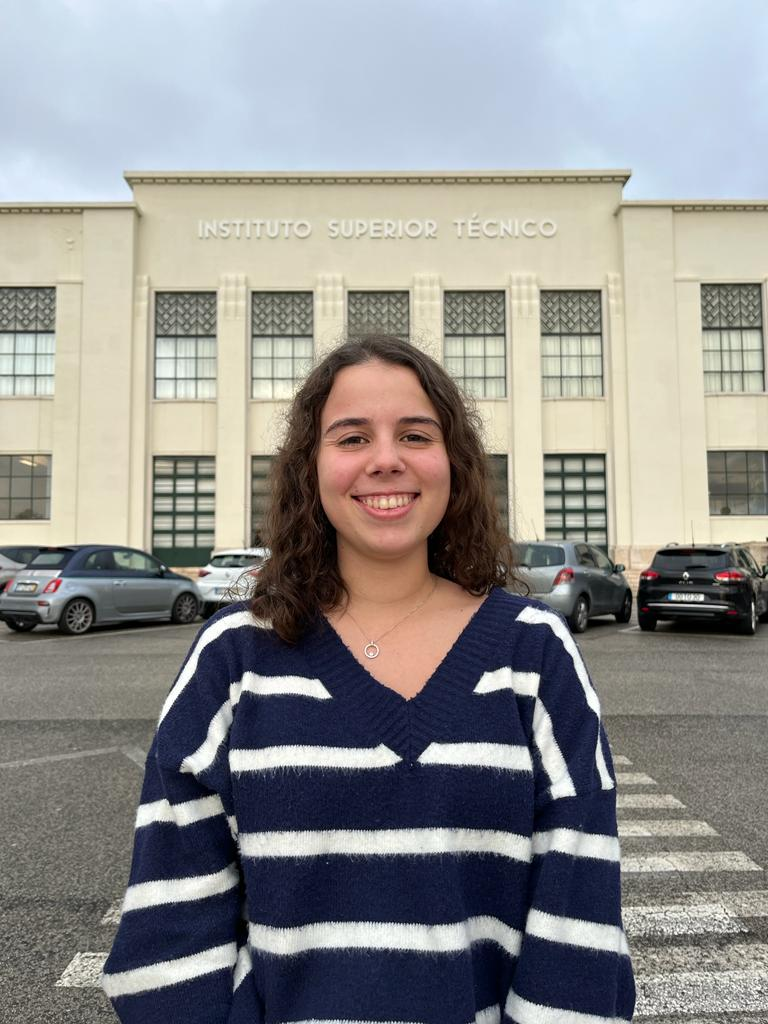
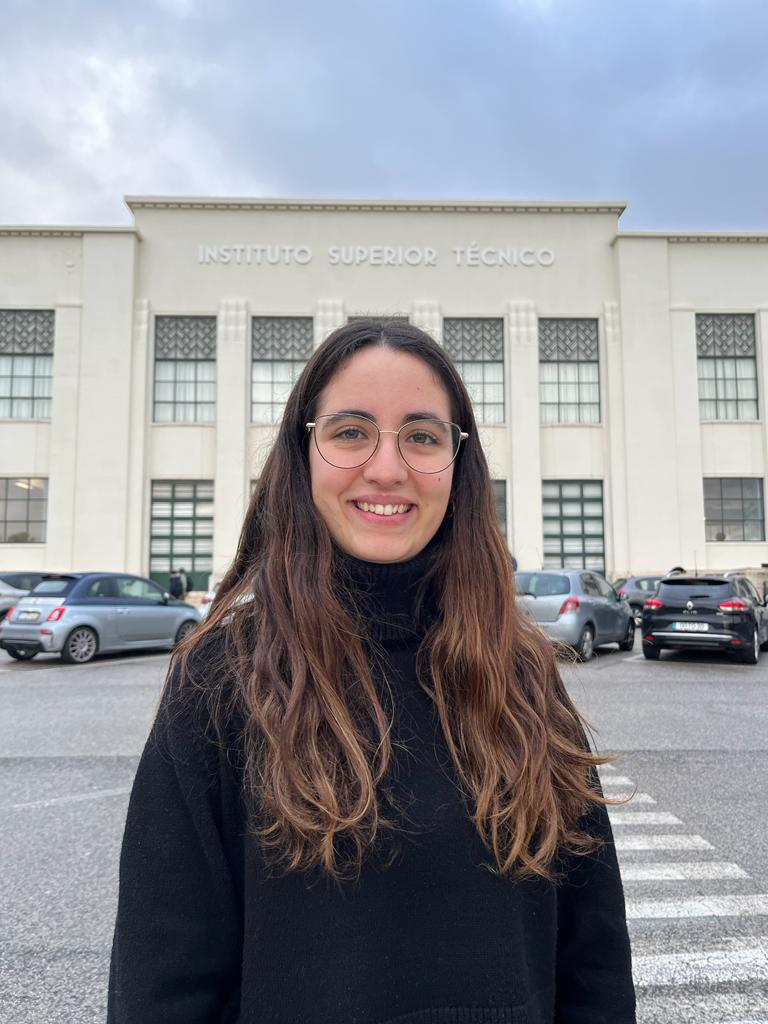
Fix About Us

diff --git a/frontend/src/assets/objects/colabObjects.js b/frontend/src/assets/objects/colabObjects.js
@@ -260,16 +260,16 @@ export const colabObjects = [
 		id: 18,
 	},
 	{
-		name: 'Beatriz Martins',
-		email: 'beatriz.f.martins@tecnico.ulisboa.pt',
-		university: 'IST',
+		name: 'Marta Santos',
+		email: 'marta.mendes.santos@tecnico.ulisboa.pt',
+		university: 'Instituto Superior Técnico',
 		degree: 'Engenharia Biomédica',
 		typeOfUser: 'colaborator',
 		department: 'media',
 		description:
-			'Proativa, determinada e metódica. Gosto de enfrentar novos desafios e de sair da minha zona de conforto. Sou trabalhadora e não desisto dos meus compromissos. ',
-		contacts: 'https://www.linkedin.com/in/beatrizfmartins/',
-		researchInterests: 'GeneTherapy, DNA, StemCells',
+			'Aluna do segundo ano de Engenharia Biomédica do Instituto Superior Técnico. Colaboradora de Media da Semana da Biomédica 2023. Sou motiva e com interesse em saber mais na área da Biomédica e nas tecnologias mais recentes!',
+		contacts: '',
+		researchInterests: 'engenharia, medicina, biomecanica',
 		password: '1234',
 		id: 19,
 	},

diff --git a/frontend/src/components/information/DropDownTeam.js b/frontend/src/components/information/DropDownTeam.js
@@ -104,7 +104,7 @@ export default function DropDownTeam(props) {
 					id: 15,
 				},
 				{
-					name: 'Beatriz Martins',
+					name: 'Marta Santos',
 					id: 19,
 				},
 			],
